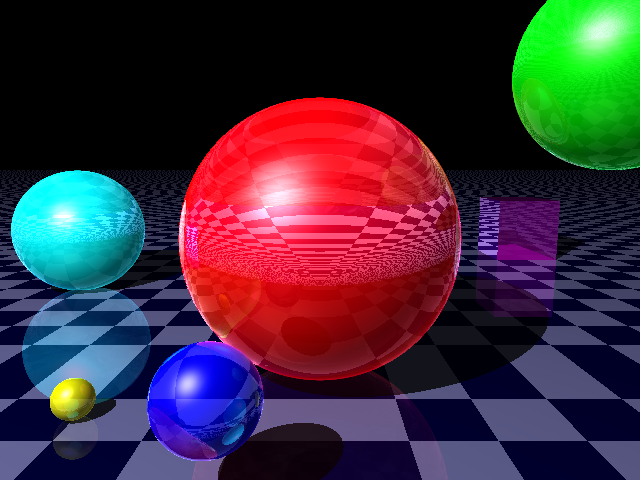
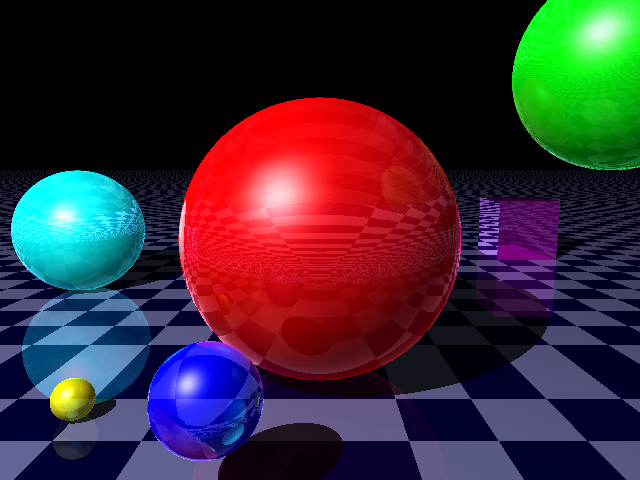
minor number tweaking

Changed region(s): [[0.2812, 0.1875, 0.7188, 0.8125], [0.8125, 0.2188, 0.8438, 0.2812]]

diff --git a/src/main.cpp b/src/main.cpp
@@ -58,7 +58,7 @@ int main (int argc, char *argv[]){
 	// Scene Color
 	Color white_light (0.8, 0.8, 0.8, 0, 0);
 	Color yellow_light (0.7, 0.7, 0.0, 0, 0);
-	Color red_reflective (1, 0, 0, 2.0, 1.2);
+	Color red_reflective (1, 0, 0, 2.0, 0.7);
 	Color green_reflective (0, 1, 0, 2.0, 1.0);
 	Color blue_reflective (0, 0, 1, 2.0, 0.7);
 	Color yellow_reflective (1, 1, 0, 2.0, 0.5);
